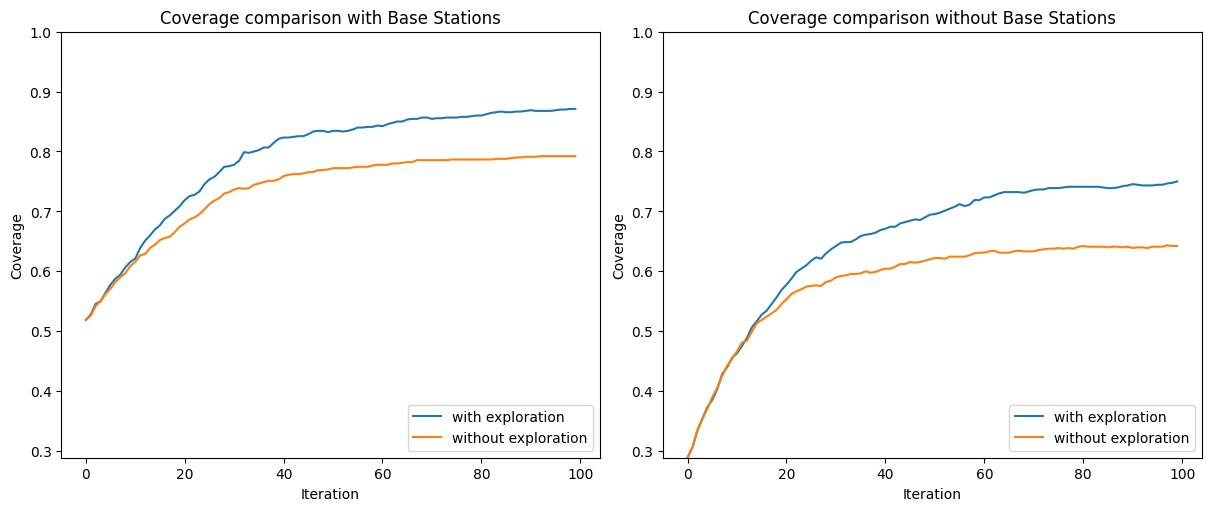
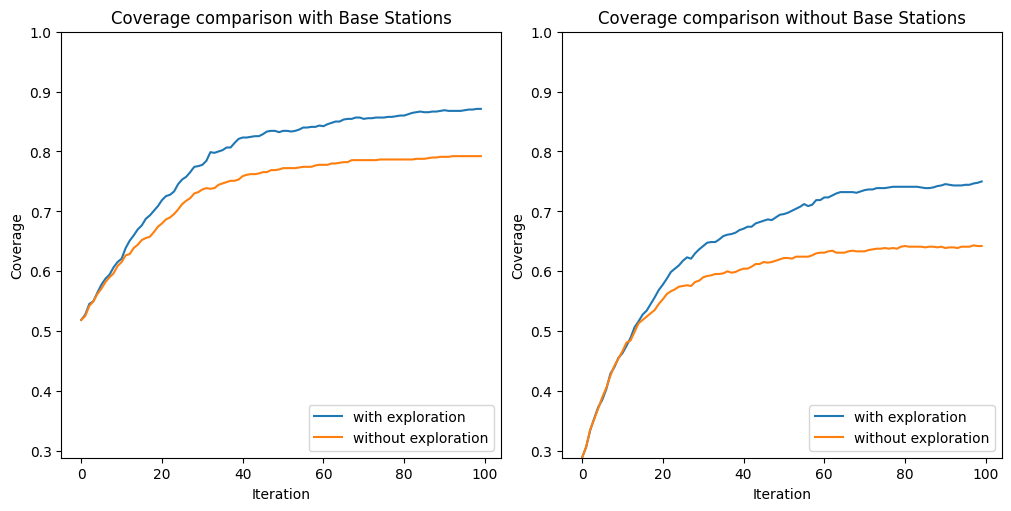
Reduce figure size

diff --git a/Experiment results/experiment1/experiment1_data_extraction.py b/Experiment results/experiment1/experiment1_data_extraction.py
@@ -68,7 +68,7 @@ for expl in [True, False]:
 min_starting_cov = min(min_starting_coverages)
 
 # plot coverage comparison
-fig, ax = plt.subplots(1,2, figsize=(12,5), constrained_layout=True)
+fig, ax = plt.subplots(1, 2, figsize=(10,5), constrained_layout=True)
 ax[0].set_xlabel("Iteration")
 ax[0].set_ylabel("Coverage")
 ax[0].set_ylim(min_starting_cov,1)
